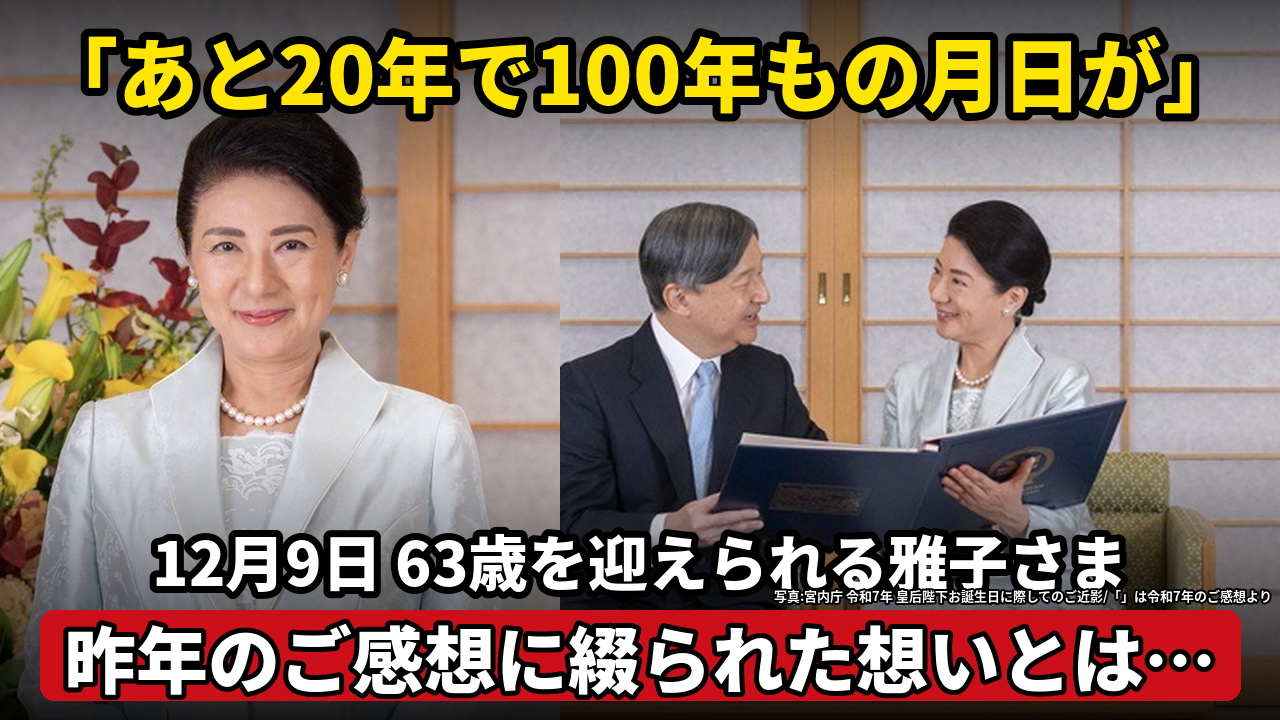
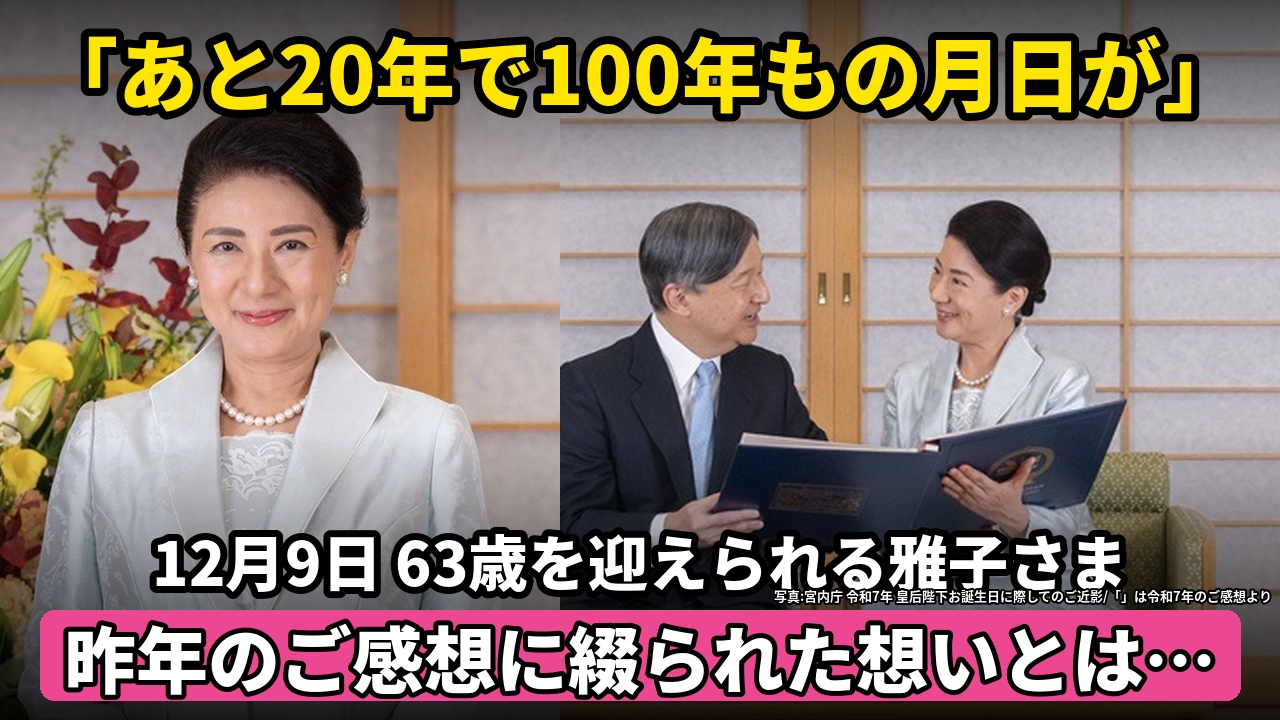
表紙の型を案A(写真全面・ピンクの帯)に決定
Claude-Session: https://claude.ai/code/session_01BJaPieHBuTRAAQkfULpzEX

Changed region(s): [[0.0312, 0.825, 0.9688, 0.9778]]

diff --git a/projects/PLAN-20261127-DRAMA/thumb_sample/make_sample_v4.py b/projects/PLAN-20261127-DRAMA/thumb_sample/make_sample_v4.py
@@ -5,6 +5,7 @@ import os
 D = os.path.dirname(__file__); A = os.path.join(D, "../../../assets/KB-20261124-01")
 BLACK = "/usr/share/fonts/opentype/noto/NotoSansCJK-Black.ttc"; BOLD = "/usr/share/fonts/opentype/noto/NotoSansCJK-Bold.ttc"
 YEL, WHITE, RED, NAVY, GOLD, INK = (255, 230, 0), (255, 255, 255), (205, 15, 25), (22, 36, 58), (216, 188, 114), (25, 25, 25)
+PINK = (236, 72, 145)  # 荒木指示 2026-11-27: 赤の帯ではなくピンクの帯
 F = lambda p, s: ImageFont.truetype(p, s, index=0)
 Q = "「あと20年で100年もの月日が」"; S1 = "12月9日 63歳を迎えられる雅子さま"; S2 = "昨年のご感想に綴られた想いとは…"
 CAP = "写真:宮内庁 令和7年 皇后陛下お誕生日に際してのご近影/「」は令和7年のご感想より"
@@ -35,7 +36,7 @@ def long_A(out):  # 写真全面(2枚つなぎ)+文字直乗せ
     grad(im, 0, 200, 170, up=True); grad(im, 430, 720, 230); d = ImageDraw.Draw(im)
     t(d, (W / 2, 70), Q, fit(d, Q, BLACK, 80, W * 0.96), YEL, 8)
     t(d, (W / 2, 560), S1, fit(d, S1, BLACK, 60, W * 0.92), WHITE, 7)
-    d.rounded_rectangle((40, 610, W - 40, 700), 14, fill=RED); t(d, (W / 2, 655), S2, fit(d, S2, BLACK, 74, W * 0.9), WHITE, 5)
+    d.rounded_rectangle((40, 610, W - 40, 700), 14, fill=PINK); t(d, (W / 2, 655), S2, fit(d, S2, BLACK, 74, W * 0.9), WHITE, 5)
     d.text((W - 8, 604), CAP, font=F(BOLD, 13), fill=WHITE, anchor="rb", stroke_width=2, stroke_fill=(0, 0, 0)); im.save(out, quality=95)
 
 def long_B(out):  # 白基調・写真を大きく右に、左に文字(上品)
@@ -62,7 +63,7 @@ def short_A(out):
     for i, line in enumerate(["「あと20年で", "100年もの月日が」"]): t(d, (W / 2, 150 + i * 140), line, fit(d, line, BLACK, 128, W * 0.95), YEL, 10)
     t(d, (W / 2, 1330), "12月9日 63歳を迎えられる", fit(d, "12月9日 63歳を迎えられる", BLACK, 76, W * 0.92), WHITE, 8)
     t(d, (W / 2, 1440), "雅子さま", F(BLACK, 110), WHITE, 10)
-    d.rounded_rectangle((40, 1530, W - 40, 1660), 18, fill=RED); t(d, (W / 2, 1595), "ご感想に綴られた想いとは…", fit(d, "ご感想に綴られた想いとは…", BLACK, 76, W * 0.86), WHITE, 5)
+    d.rounded_rectangle((40, 1530, W - 40, 1660), 18, fill=PINK); t(d, (W / 2, 1595), "ご感想に綴られた想いとは…", fit(d, "ご感想に綴られた想いとは…", BLACK, 76, W * 0.86), WHITE, 5)
     d.text((W - 12, 1708), CAP, font=F(BOLD, 18), fill=WHITE, anchor="rt", stroke_width=2, stroke_fill=(0, 0, 0)); im.save(out, quality=95)
 
 def short_B(out):

diff --git a/docs/production_rules.md b/docs/production_rules.md
@@ -326,7 +326,7 @@
 **BGM：** UNL1337（箕輪レコーズ）。第0-2章③で `assets/bgm/` に取得したファイルを使う
 - ナレーション中は、BGMを十分に下げる（目安：ナレーションより18〜24dB低く）
 
-**表紙の新しい型（荒木承認 2026-11-27。KB-20261127-02 以降の長尺とショート）：** 黒背景の中央に写真、上下は黒帯。1行目は**赤い帯に白文字**で「」付きの一言（この帯に限り赤を使ってよい。写真の中の赤丸・赤い矢印・汗や怒りマークは引き続き禁止）。2〜3行目は黄色と白の太字・黒の縁取りで内容を要約。写真は1〜3人で、対立させず「受け継ぐ」「つながる」関係として並べる。
+**表紙の型（荒木採用 2026-11-27・案A「写真全面」。KB-20261127-02 以降の長尺とショート。見本 projects/PLAN-20261127-DRAMA/thumb_sample/adopted_long_pink.png・adopted_short_pink.png、作り方 make_sample_v4.py の long_A/short_A）：** **黒の帯は使わない**。写真で画面全体を埋める（長尺は写真2枚をすき間なく横に並べる、ショートは縦の写真1枚を全面に）。文字が読めるよう上下だけ写真を暗くするグラデーションをかける。上段＝**黄色の極太**に黒の縁取りで「」付きの一言（宮内庁の原文の一字一句のみ）。下段1行目＝**白の極太**に黒の縁取りで状況。下段2行目＝**ピンクの角丸の帯（#EC4891 前後）に白の極太**で結末を伏せる一言（「…とは…」）。**赤は使わない**（ピンクの帯に変更）。写真の撮影情報と「」の出典を小さく右下に。写真は1〜3人で「受け継ぐ」「つながる」関係、目線が下がっていない穏やかな表情。怒り・汗マーク、?!、矢印、赤丸、吹き出し、作られた台詞、対立の構図は使わない。
 **表紙画像（旧型・KB-20261127-01 まで）：** 実在人物の写真1〜2人、短い疑問文を大きな文字で。濃紺#16243A／金#D8BC72／白#FFFFFF。赤は使わない
 **書き出し：** MP4／H.264／AAC
 
